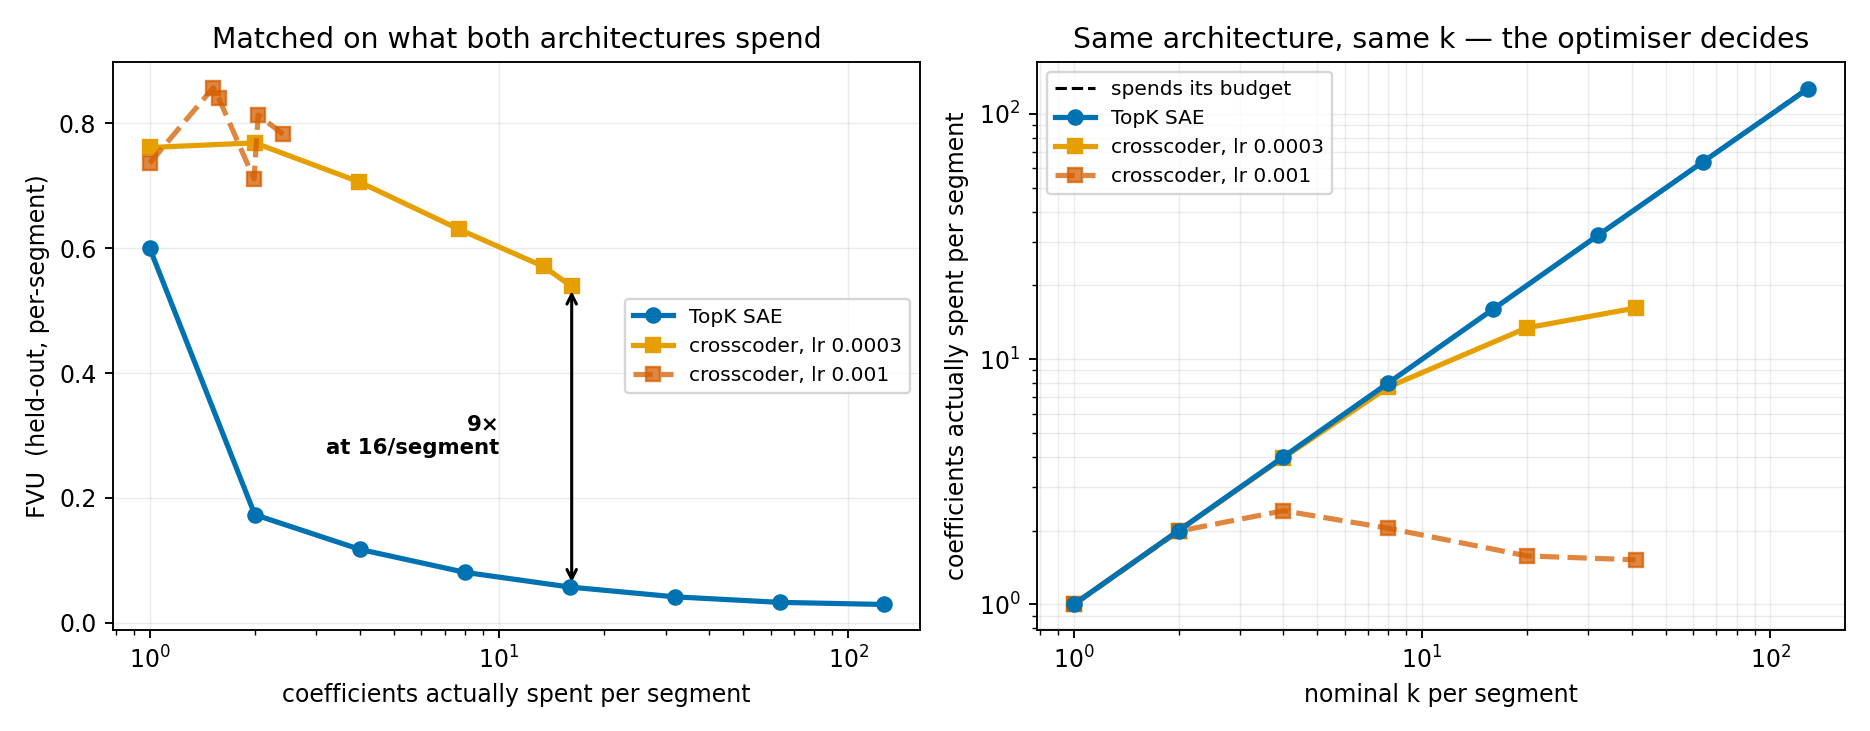
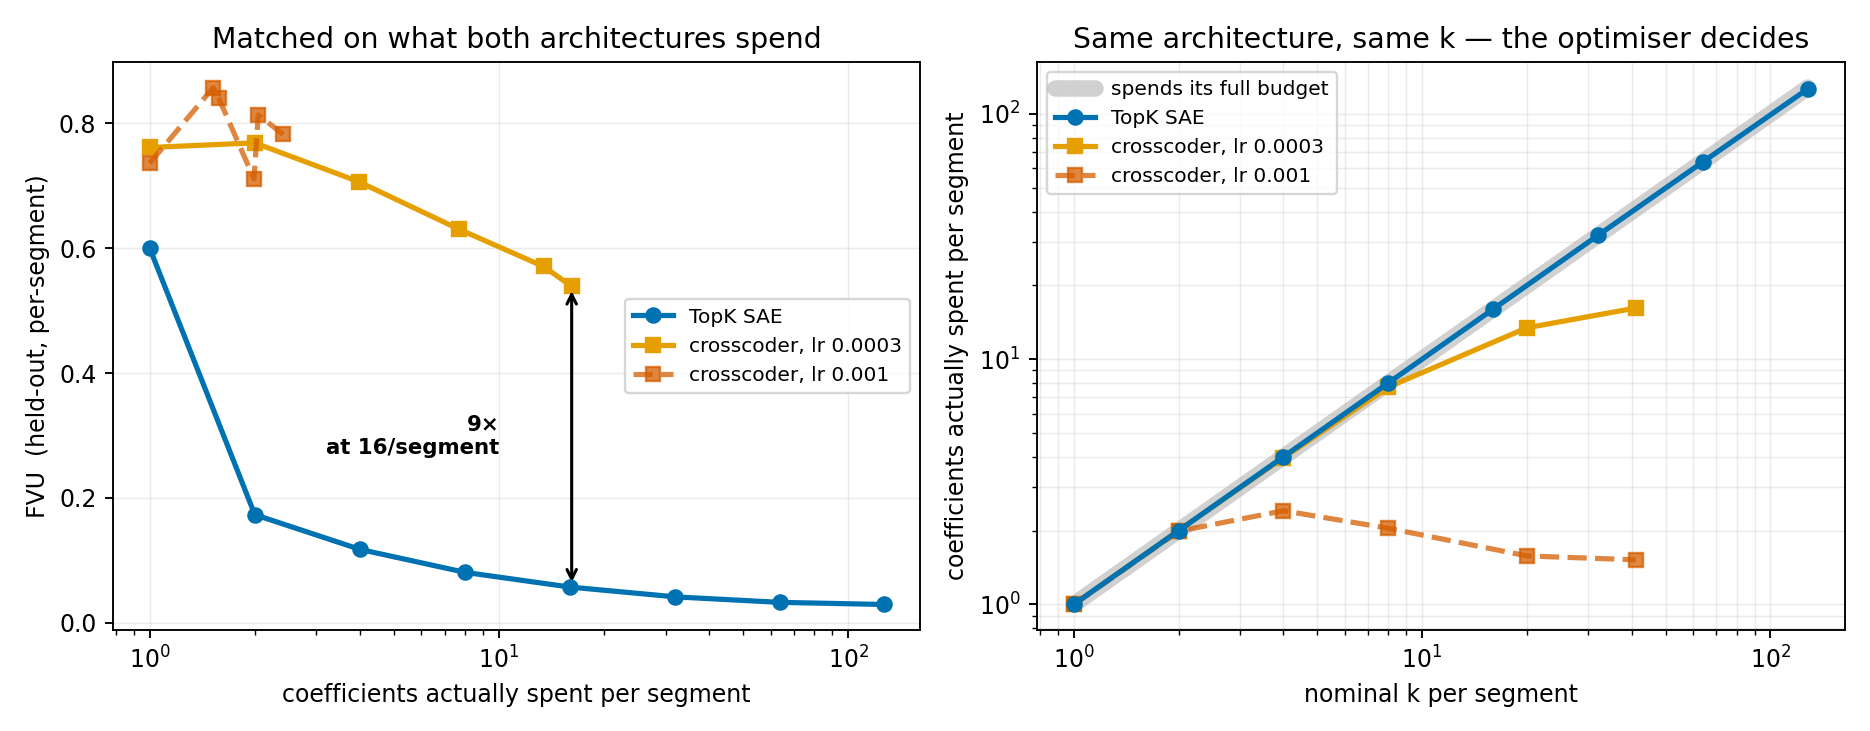
sprint2: frontier figure — make the budget diagonal visible under the SAE

diff --git a/scripts/plot_frontier.py b/scripts/plot_frontier.py
@@ -83,8 +83,9 @@ def main() -> int:
     # ---------------- right: what each model does with the budget it is given ----------
     ax = axes[1]
     hi = max(sae_b[-1]["nominal_k"], max(t["nominal_k_per_pos"] for t in txc))
-    ax.plot([1, hi], [1, hi], "--", color=C_REF, lw=1.3, zorder=1,
-            label="spends its budget")
+    # Drawn wide and pale so it stays visible under the SAE, which sits exactly on it.
+    ax.plot([1, hi], [1, hi], "-", color="#9A9A9A", lw=7, alpha=0.45, zorder=1,
+            solid_capstyle="round", label="spends its full budget")
     ax.plot([s["nominal_k"] for s in sae_b],
             [s["coeff_per_segment"] for s in sae_b],
             "o-", color=C_SAE, lw=2.2, ms=6, label="TopK SAE", zorder=4)
